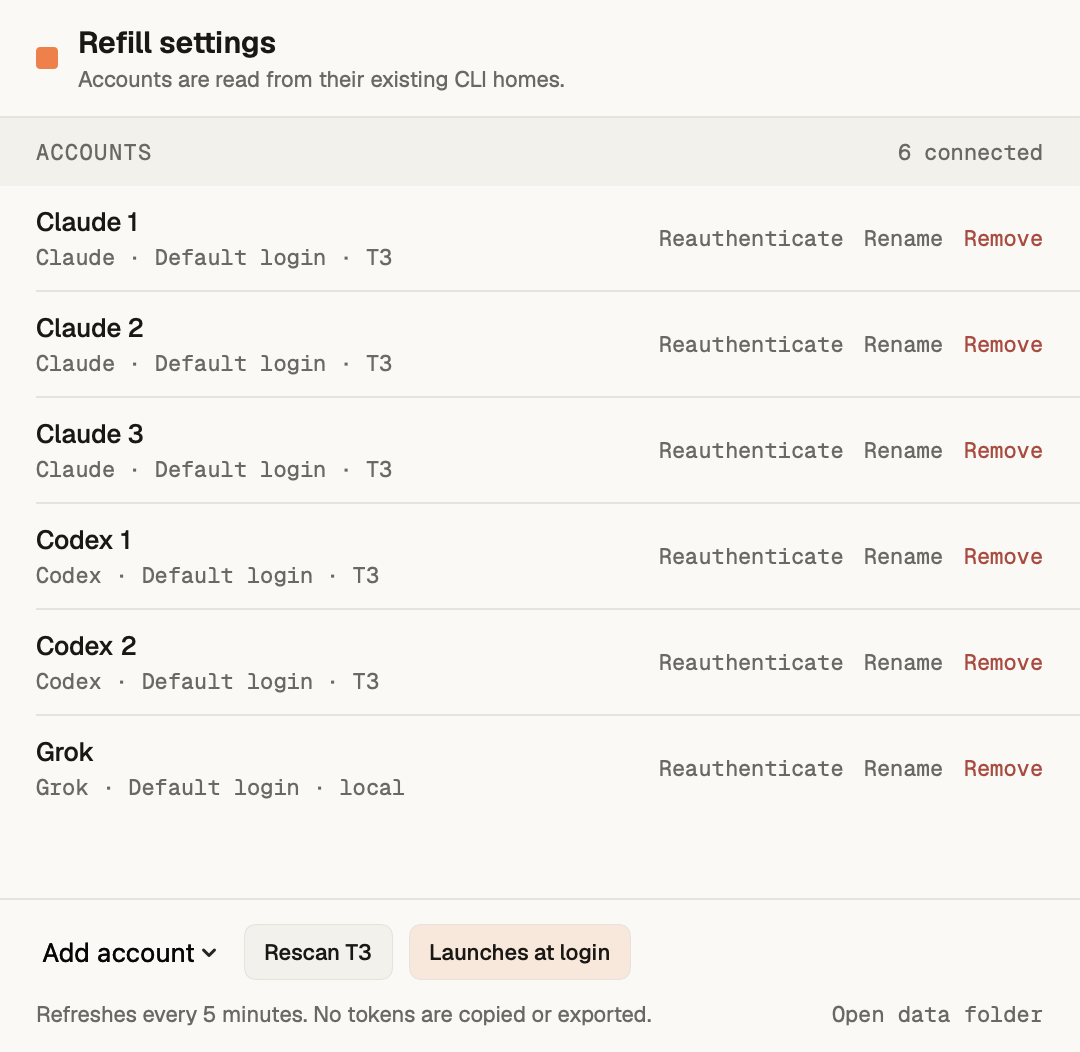
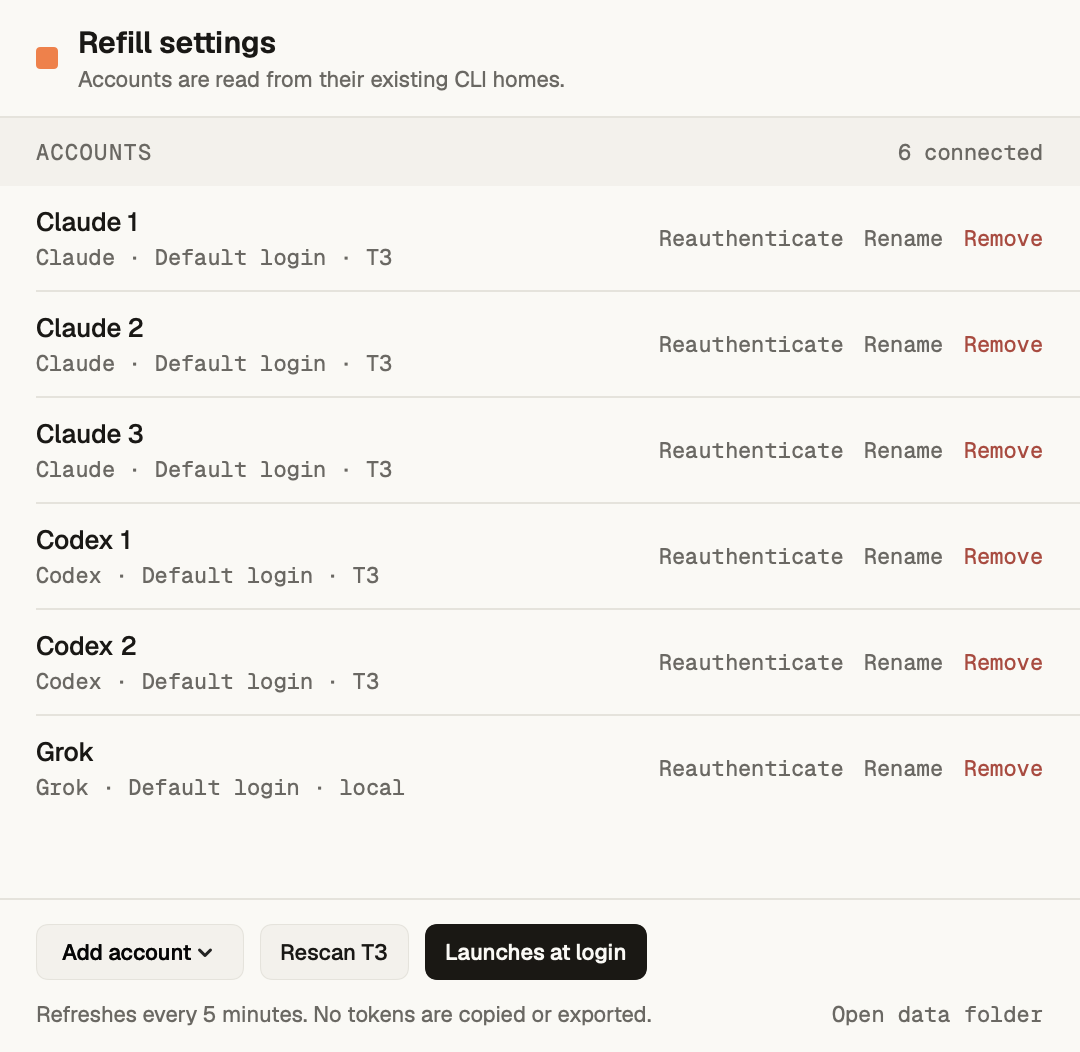
Bring the popover up to the Sep 11 Otis rework
Provider modules arrive in sequence when the popover opens, and bars
draw on first paint. Both skip under Reduce Motion. Launch at login
fills in ink when on. Stale marks drop the accent. Sheets get a
hairline that reads in dark mode.

Changed region(s): [[0.2444, 0.8517, 0.6111, 0.943], [0.0306, 0.8821, 0.2139, 0.9125]]

diff --git a/Sources/Views.swift b/Sources/Views.swift
@@ -46,8 +46,58 @@ enum UsageFormat {
     }
 }
 
+/// Counts popover opens. Each open is a navigation, and rows arrive once per navigation.
+final class PopoverPresentation: ObservableObject {
+    @Published var generation = 0
+}
+
+/// Off for proof renders, so screenshots show the end state instead of a frame mid-arrival.
+private struct OtisMotionKey: EnvironmentKey {
+    static let defaultValue = true
+}
+
+extension EnvironmentValues {
+    var otisMotion: Bool {
+        get { self[OtisMotionKey.self] }
+        set { self[OtisMotionKey.self] = newValue }
+    }
+}
+
+/// Arrival. A row of a screen that just opened comes in 8px up and fading, over `Otis.move`,
+/// `Otis.stagger` after the row before it. Runs once per navigation, never on scroll.
+private struct Arrive: ViewModifier {
+    let index: Int
+    let generation: Int
+    @Environment(\.otisMotion) private var motion
+    @State private var shown = false
+
+    func body(content: Content) -> some View {
+        content
+            .opacity(shown || !animates ? 1 : 0)
+            .offset(y: shown || !animates ? 0 : 8)
+            .onAppear { arrive() }
+            .onChange(of: generation) { _ in arrive() }
+    }
+
+    private var animates: Bool { motion && generation > 0 && Otis.motionAllowed }
+
+    private func arrive() {
+        guard animates else { return }
+        shown = false
+        let delay = Otis.stagger * Double(min(index, 8))
+        withAnimation(Otis.move.delay(delay)) { shown = true }
+    }
+}
+
+extension View {
+    func arrive(index: Int, generation: Int) -> some View {
+        modifier(Arrive(index: index, generation: generation))
+    }
+}
+
 struct PopoverView: View {
     @ObservedObject var model: RefillModel
+    @ObservedObject var presentation: PopoverPresentation
     let openSettings: () -> Void
     let reauthenticate: (AccountProfile) -> Void
     let quit: () -> Void
@@ -57,13 +107,14 @@ struct PopoverView: View {
             header
             ScrollView(.vertical, showsIndicators: true) {
                 VStack(spacing: 8) {
-                    ForEach(Provider.allCases) { provider in
+                    ForEach(Array(Provider.allCases.enumerated()), id: \.element) { index, provider in
                         ProviderSection(
                             provider: provider,
                             accounts: model.accounts.filter { $0.provider == provider },
                             states: model.states,
                             reauthenticate: reauthenticate
                         )
+                        .arrive(index: index, generation: presentation.generation)
                     }
                 }
                 .padding(.horizontal, 10)
@@ -140,7 +191,7 @@ struct ProviderSection: View {
             } else {
                 ForEach(Array(accounts.enumerated()), id: \.element.id) { index, profile in
                     if index > 0 {
-                        Rectangle().fill(Otis.line).frame(height: Otis.hairline)
+                        Rectangle().fill(Otis.sheetLine).frame(height: Otis.hairline)
                             .padding(.vertical, 10)
                     }
                     AccountUsageView(
@@ -158,7 +209,7 @@ struct ProviderSection: View {
         .clipShape(RoundedRectangle(cornerRadius: Otis.radiusMd))
         .overlay(
             RoundedRectangle(cornerRadius: Otis.radiusMd)
-                .stroke(Otis.line, lineWidth: Otis.hairline)
+                .stroke(Otis.sheetLine, lineWidth: Otis.hairline)
         )
     }
 }
@@ -213,7 +264,7 @@ struct AccountUsageView: View {
                 if state?.isStale == true {
                     Text("Stale")
                         .font(Otis.mono(11))
-                        .foregroundStyle(Otis.accentText)
+                        .foregroundStyle(Otis.ink2)
                 }
                 if state?.requiresAuthentication == true {
                     Button("Reauthenticate") { reauthenticate(profile) }
@@ -229,9 +280,7 @@ struct AccountUsageView: View {
                 }
             } else {
                 HStack(spacing: 7) {
-                    Circle()
-                        .fill(stateLoading ? Otis.accent : Otis.ink2)
-                        .frame(width: 5, height: 5)
+                    LiveDot(live: stateLoading)
                     Text(stateLoading ? "Refreshing quota" : (state?.reason ?? "Waiting for first refresh"))
                         .font(Otis.sans(11))
                         .foregroundStyle(Otis.ink2)
@@ -250,16 +299,43 @@ struct AccountUsageView: View {
 
 }
 
+/// The 6px orange dot that pulses at 1.6s while data is live. The only loop Otis allows.
+struct LiveDot: View {
+    let live: Bool
+    @Environment(\.otisMotion) private var motion
+    @State private var dim = false
+
+    var body: some View {
+        Circle()
+            .fill(live ? Otis.accent : Otis.ink2)
+            .frame(width: 6, height: 6)
+            .opacity(dim ? 0.3 : 1)
+            .onAppear { pulse() }
+            .onChange(of: live) { _ in pulse() }
+    }
+
+    private func pulse() {
+        guard live, motion, Otis.motionAllowed else {
+            withAnimation(nil) { dim = false }
+            return
+        }
+        withAnimation(.easeInOut(duration: 0.8).repeatForever(autoreverses: true)) { dim = true }
+    }
+}
+
 struct UsageWindowView: View {
     let window: UsageWindow
     let stale: Bool
+    @Environment(\.otisMotion) private var motion
+    @State private var painted = false
 
     private var attention: Bool { !stale && window.isTight }
+    private var drawn: Bool { painted || !motion || !Otis.motionAllowed }
 
     var body: some View {
         HStack(spacing: 8) {
             Text(window.label)
-                .font(Otis.sans(12))
+                .font(Otis.working)
                 .foregroundStyle(Otis.ink2)
                 .frame(width: 62, alignment: .leading)
                 .lineLimit(1)
@@ -267,14 +343,16 @@ struct UsageWindowView: View {
             GeometryReader { proxy in
                 ZStack(alignment: .leading) {
                     Capsule()
-                        .fill(Otis.line)
+                        .fill(Otis.sheetLine)
                     Capsule()
                         .fill(Otis.meterFill(attention: attention, stale: stale))
-                        .frame(width: max(3, proxy.size.width * CGFloat(window.remainingPercent) / 100))
+                        .frame(width: drawn ? max(3, proxy.size.width * CGFloat(window.remainingPercent) / 100) : 3)
                         .animation(Otis.bar, value: window.remainingPercent)
+                        .animation(Otis.bar, value: drawn)
                 }
             }
             .frame(height: 4)
+            .onAppear { painted = true }
 
             Text(UsageFormat.percent(window.remainingPercent))
                 .font(Otis.mono(11, weight: attention ? .medium : .regular))
@@ -361,15 +439,26 @@ struct SettingsView: View {
 
             VStack(spacing: 10) {
                 HStack(spacing: 8) {
-                    Menu("Add account") {
+                    Menu {
                         ForEach(Provider.allCases) { provider in
                             Button("Use current \(provider.title) login") { addCurrent(provider) }
                             Button("Sign in to another \(provider.title) account") { addAnother(provider) }
                         }
+                    } label: {
+                        Text("Add account")
+                            .font(Otis.sans(11, weight: .medium))
+                            .foregroundStyle(Otis.ink)
                     }
                     .menuStyle(.borderlessButton)
                     .fixedSize()
-                    .buttonStyle(OtisPanelButtonStyle())
+                    .padding(.horizontal, 10)
+                    .frame(height: 28)
+                    .background(Otis.surface)
+                    .overlay {
+                        RoundedRectangle(cornerRadius: Otis.radius)
+                            .stroke(Otis.line, lineWidth: 1)
+                    }
+                    .clipShape(RoundedRectangle(cornerRadius: Otis.radius))
 
                     Button("Rescan T3") { rescan() }
                         .buttonStyle(OtisPanelButtonStyle())
@@ -441,14 +530,15 @@ struct OtisPanelButtonStyle: ButtonStyle {
     func makeBody(configuration: Configuration) -> some View {
         configuration.label
             .font(Otis.sans(11, weight: .medium))
-            .foregroundStyle(Otis.ink)
+            .foregroundStyle(active ? Otis.paper : Otis.ink)
             .padding(.horizontal, 10)
             .frame(height: 28)
-            .background(active ? Otis.accentSoft : Otis.surface)
+            .background(active ? Otis.ink : Otis.surface)
             .overlay {
                 RoundedRectangle(cornerRadius: Otis.radius)
-                    .stroke(Otis.line, lineWidth: 1)
+                    .stroke(active ? Otis.ink : Otis.line, lineWidth: 1)
             }
+            .animation(Otis.fast, value: active)
             .clipShape(RoundedRectangle(cornerRadius: Otis.radius))
             .scaleEffect(configuration.isPressed ? 0.98 : 1)
             .animation(Otis.press, value: configuration.isPressed)

diff --git a/Sources/AppDelegate.swift b/Sources/AppDelegate.swift
@@ -5,6 +5,7 @@ import SwiftUI
 
 final class AppDelegate: NSObject, NSApplicationDelegate {
     private let model = RefillModel()
+    private let presentation = PopoverPresentation()
     private let popover = NSPopover()
     private var statusItem: NSStatusItem!
     private var settingsWindow: NSWindow?
@@ -59,6 +60,7 @@ final class AppDelegate: NSObject, NSApplicationDelegate {
         popover.contentSize = NSSize(width: Otis.popoverWidth, height: 620)
         popover.contentViewController = NSHostingController(rootView: PopoverView(
             model: model,
+            presentation: presentation,
             openSettings: { [weak self] in self?.showSettings() },
             reauthenticate: { [weak self] account in self?.reauthenticate(account) },
             quit: { NSApp.terminate(nil) }
@@ -74,6 +76,7 @@ final class AppDelegate: NSObject, NSApplicationDelegate {
         if let last = model.lastRefresh, Date().timeIntervalSince(last) > 30 {
             model.refreshAll()
         }
+        presentation.generation += 1
         popover.show(relativeTo: button.bounds, of: button, preferredEdge: .minY)
         popover.contentViewController?.view.window?.makeKey()
     }
@@ -304,6 +307,7 @@ enum ProofRenderer {
         model.states = model.states.filter { selectedIDs.contains($0.key) }
         let root = PopoverView(
             model: model,
+            presentation: PopoverPresentation(),
             openSettings: {},
             reauthenticate: { _ in },
             quit: {}
@@ -340,6 +344,7 @@ enum ProofRenderer {
         }
         let root = PopoverView(
             model: model,
+            presentation: PopoverPresentation(),
             openSettings: {},
             reauthenticate: { _ in },
             quit: {}
@@ -353,7 +358,7 @@ enum ProofRenderer {
         to path: String,
         appearance: NSAppearance.Name
     ) throws {
-        let host = NSHostingView(rootView: root)
+        let host = NSHostingView(rootView: root.environment(\.otisMotion, false))
         host.frame = NSRect(origin: .zero, size: size)
         host.appearance = NSAppearance(named: appearance)
         let window = NSWindow(

diff --git a/Sources/Otis.swift b/Sources/Otis.swift
@@ -37,6 +37,8 @@ enum Otis {
     static let chrome  = dynamic(light: "#e6e9ed", dark: "#161618")
     /// Lifted panel on chrome. White in light so it does not sit cream on tan.
     static let sheet   = dynamic(light: "#ffffff", dark: "#2c2920")
+    /// Hairline and meter track on a sheet. `line` sits under `sheet` in dark and vanishes there.
+    static let sheetLine = dynamic(light: "#e6e3db", dark: "#3d3a30")
 
     static let accent       = Color(NSColor(hex: "#ff7a3a"))
     static let accentStrong = Color(NSColor(hex: "#f5610f"))
@@ -89,9 +91,19 @@ enum Otis {
 
     // MARK: Motion
 
+    /// A state change: hover, press, toggle.
     static let fast  = Animation.timingCurve(0.2, 0.7, 0.2, 1, duration: 0.15)
     static let press = Animation.timingCurve(0.2, 0.7, 0.2, 1, duration: 0.06)
+    /// A screen change: push, sheet, arrival, an option opening, an illustration filling.
+    static let move  = Animation.timingCurve(0.2, 0.7, 0.2, 1, duration: 0.24)
+    /// Gap between rows arriving. Eight rows at most take the delay, so arrival ends under 600ms.
+    static let stagger: TimeInterval = 0.04
     static let bar   = Animation.timingCurve(0.2, 0.7, 0.2, 1, duration: 0.40)
+
+    /// Reduce motion is a system setting. Honor it: arrival and bar draw skip to their end state.
+    static var motionAllowed: Bool {
+        !NSWorkspace.shared.accessibilityDisplayShouldReduceMotion
+    }
 }
 
 extension NSColor {

diff --git a/CHANGELOG.md b/CHANGELOG.md
@@ -6,6 +6,8 @@ All notable changes are documented here.
 
 - Grouped provider modules on cool chrome, with white sheets and sentence-case window labels.
 - Quota bars fill in ink. Orange is reserved for windows that are running low.
+- Provider modules arrive one after another when the popover opens, and bars draw on first paint. Both skip when Reduce Motion is on.
+- Launch at login fills in ink when it is on. A stale account is marked in amber, not orange.
 
 ## 1.0.1 - 2026-09-02
 
